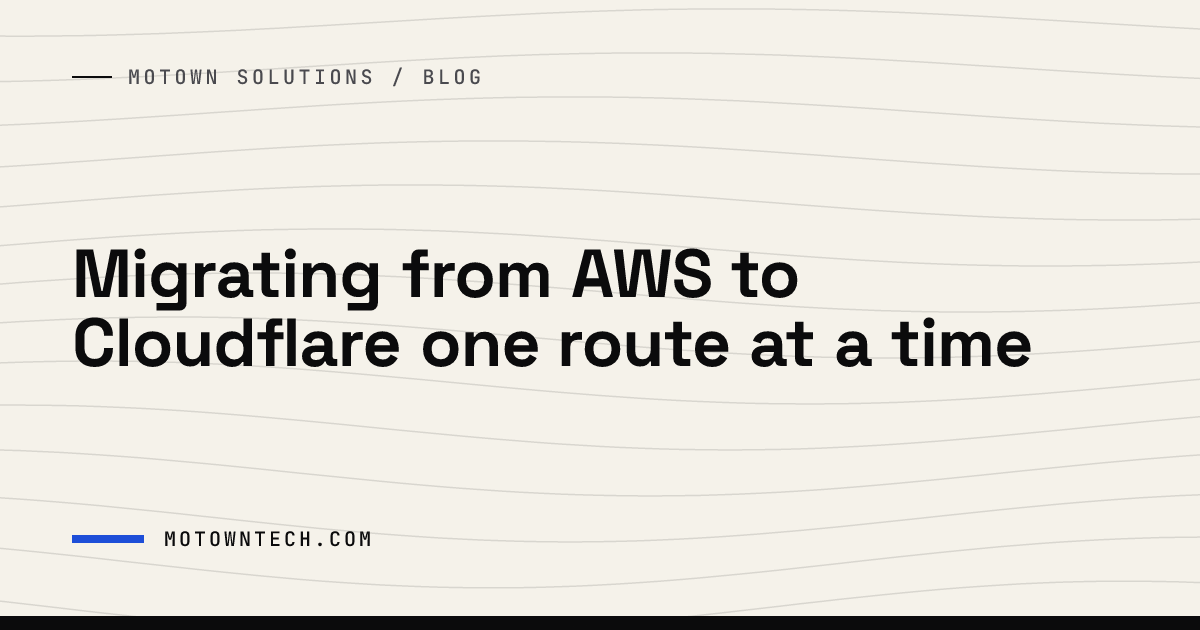
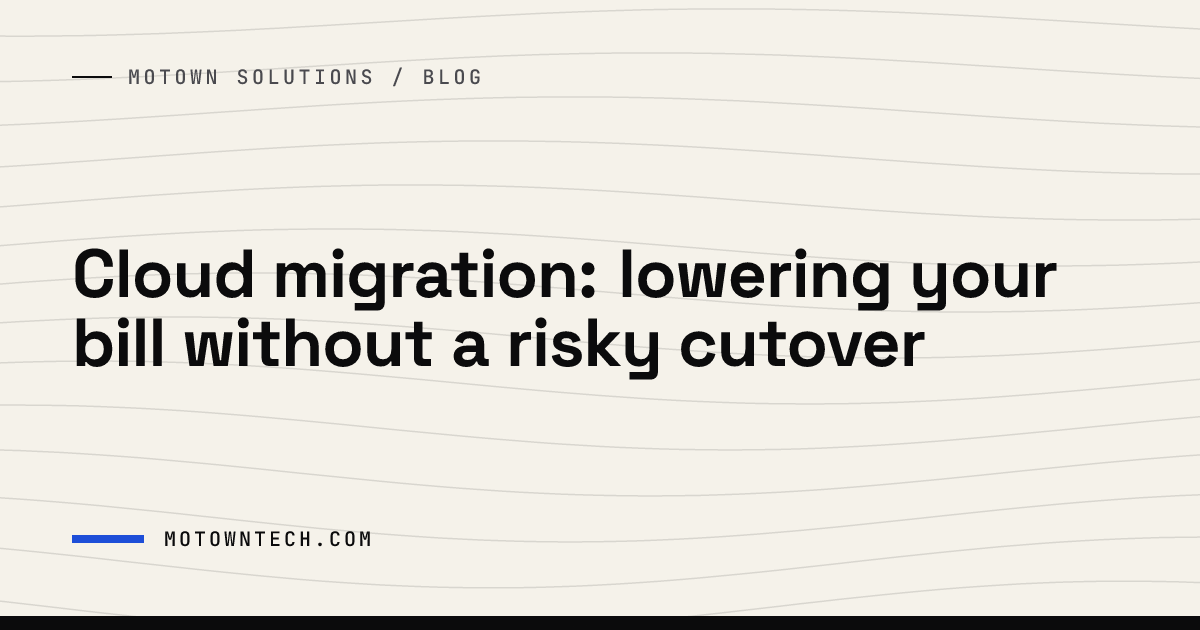
copy(blog): rewrite the cloud-migration-route-by-route post around the reader's problem

Changed region(s): [[0.0617, 0.3921, 0.8942, 0.6032]]

diff --git a/src/content/blog/cloud-migration-route-by-route.md b/src/content/blog/cloud-migration-route-by-route.md
@@ -1,54 +1,67 @@
 ---
-title: "Migrating from AWS to Cloudflare one route at a time"
+title: "Cloud migration: lowering your bill without a risky cutover"
 image: ../../assets/blog/cloud-migration-route-by-route-image.jpg
 imageAlt: "Taped cardboard moving boxes floating above a blue floor, one box resting on the ground"
 cover: ../../assets/blog/cloud-migration-route-by-route.png
-description: "Most cloud bills are egress, idle capacity and managed services sized for a bigger company. We move apps to Cloudflare one route at a time."
+description: "Most cloud bills pay for egress and idle capacity. How to read yours, decide what moves and migrate one route at a time instead of all at once."
 pubDate: 2026-09-03
 relatedPages: ["/cloud-migration-services"]
 category: software
 ---
 
-We migrate applications from AWS, GCP or Azure to Cloudflare route by route, behind the DNS you already have, so users keep the same URLs while each piece switches over.
+If your cloud bill has grown faster than your traffic, the cause is rarely compute. It's egress on files users download, servers sized for a peak that hardly ever comes, and managed services priced for a company bigger than yours. Moving to a cheaper platform can fix that, as long as the move itself doesn't become the risky part.
 
-When a company asks us to look at its AWS, GCP or Azure bill, the expensive part is rarely the compute. It's egress, capacity reserved for a peak that hardly ever comes, and managed services priced for a scale the business hasn't reached.
+## Read the invoice before you plan the move
 
-Most of a typical application can move to Cloudflare cleanly. The hard part is knowing which pieces move, and in what order, so the switch is uneventful for the people using the app.
+Start with a recent bill and group the line items by what they pay for. Three things tend to stand out:
 
-## Start with an inventory
+- Egress, charged on every file a user downloads.
+- Instances sized for peak traffic that sit idle most of the month.
+- A load balancer, firewall, CDN and TLS, each on its own bill.
 
-A migration starts with a list of every workload, and each one goes into one of three groups:
+If most of the cost sits in those lines, a platform that bills differently will make a real difference. If most of it is GPU time or a large database that has to stay where it is, moving will save less, and it's better to know that before you start.
 
-- It has a Cloudflare-native home and can move as it is.
-- It needs a bridge, so it can keep running where it is while the rest moves around it.
+## Sort every workload into three groups
+
+List everything the application runs, then put each item into one of three groups:
+
+- It has a native home on the new platform and can move as it is.
+- It needs a bridge, so it keeps running where it is while the rest moves around it.
 - It belongs where it is and should stay.
 
-Being honest about that last group is what keeps the cutover boring. A plan that tries to move everything usually turns into the rewrite nobody wants to sign off on.
+Be honest about the third group. GPU workloads, long-running stateful services and anything behind a compliance boundary that took real effort to get right are usually best left alone. A plan that insists on moving everything tends to turn into the rewrite nobody wants to sign off on.
 
-## Where each piece usually goes
+## Know where each piece usually lands
 
-- API routes and the glue between services move to Workers. There are no instances to size, and nothing sits idle waiting for a peak that arrives twice a year.
-- Static sites and server-rendered frontends move to Pages. The CDN, TLS and preview environments come with the platform, so there's no need to piece them together from four separate services. For apps built on these from the start, see [cloud application development](/cloud-application-development).
-- Files in S3 move to R2, which uses the same S3 API with no egress fees. For anything that serves files to users, that line item alone is often the whole business case.
-- Small relational databases move to D1. Postgres and MySQL databases that need to stay put get Hyperdrive in front of them, so a Worker isn't paying for a cold connection on every request.
-- Scheduled jobs become Cron Triggers and background work becomes Queues. The server whose only job was running crontab can be retired.
+If the destination is Cloudflare, the mapping is fairly predictable:
 
-Some things stay where they are: GPU workloads, long-running stateful services, and anything with a compliance boundary that took real effort to get right. Those get Cloudflare in front of them so everything else can move.
+- API routes and the glue between services become Workers. They're billed per request and scale to zero when traffic is quiet, so there are no instances to size.
+- Static sites and server-rendered frontends go to Pages, with the CDN, TLS and preview environments included. For apps built this way from the start, see [cloud application development](/cloud-application-development).
+- Files in S3 move to R2, which uses the same S3 API and charges no egress fees. For an app that serves a lot of files, that line item alone is often the whole business case.
+- Small relational databases can move to D1. Postgres or MySQL databases that need to stay put get Hyperdrive in front of them, so a request doesn't pay for a cold connection every time.
+- Scheduled jobs become Cron Triggers and background work goes on Queues. The server whose only job was running crontab can be shut down.
 
-## Route by route, behind the same DNS
+Whatever stays behind gets Cloudflare in front of it, so the rest can move without waiting on it.
 
-The cutover happens in steps. Because traffic already flows through DNS you control, routes can move to Cloudflare one at a time while the rest keep running on the old setup. Users keep the same URLs the whole way through, including files that now come from R2.
+## Move one route at a time
 
-## What changes on the bill
+The risky way to migrate is a single weekend where everything switches at once, and any problem reaches every user. You can avoid that because your traffic already flows through DNS you control. Routes can move to the new platform one at a time while the rest keep running on the old setup.
 
-The legacy cloud bill was designed around instances and regions. Many applications don't need either, and they pay every month for the mismatch. After a migration, the usual changes look like this:
+Each step is small enough to check on its own. Users keep the same URLs the whole way through, including for files that now come from R2, and most of them never notice that anything changed.
 
-- Egress on every file a user downloads goes away with R2.
-- Instances sized for peak and idle the rest of the month become Workers billed per request, which scale to zero when traffic is quiet.
-- A load balancer, firewall, CDN and TLS that each had their own bill come with the platform and get configured once.
+A sensible order is to start where the savings are largest and the risk is smallest. File storage is often a good first move, because shifting it to R2 removes egress fees without touching application code.
 
-## How we price it
+## Questions to answer before you commit
 
-We start from a recent invoice and a rough map of what runs where. From that we can tell you what moves, what stays, and what the bill should look like afterward. Engagements can be structured against the savings we find, so the audit costs nothing if there's nothing to save.
+- Which few line items make up most of the bill, and does another platform actually charge less for them?
+- Which workloads have to stay, and what will sit in front of them?
+- Can traffic be split by route at the DNS level, so pieces can move one at a time?
+- What would the bill look like with only the easy moves done?
 
-If your cloud bill has grown faster than your traffic, read how we approach [cloud migration](/cloud-migration-services), or [send us your bill and tell us what runs where](/contact).
+If the answers point to real savings, you can start with the easy moves and decide on the rest once you see the new bill.
+
+## One way to get started
+
+When a company asks us to look at its cloud costs, we start the same way: a recent invoice and a rough map of what runs where. From that we can say what moves, what stays and what the bill should look like afterward. We can also structure the engagement against the savings we find, so the audit costs nothing if there's nothing to save.
+
+Read how we approach [cloud migration](/cloud-migration-services), or [send us your bill and tell us what runs where](/contact).

diff --git a/linkedin/cloud-migration-route-by-route/post.md b/linkedin/cloud-migration-route-by-route/post.md
@@ -2,29 +2,28 @@
 
 ## Post 1: native text
 
-When we look at a company's AWS, GCP or Azure bill, the expensive part is rarely the compute.
+If your cloud bill has grown faster than your traffic, the cause is rarely compute.
 
-It's egress, capacity reserved for a peak that hardly ever comes, and managed services priced for a scale the business hasn't reached.
+Look at a recent invoice. The big lines are usually egress on every file users download, servers sized for a peak that hardly ever comes, and a load balancer, firewall and CDN that each bill separately.
 
-Most of a typical app can move to Cloudflare cleanly. A migration starts with a list of every workload, and each one goes into one of three groups: it moves as it is, it needs a bridge, or it stays where it is.
+A cheaper platform can fix that. The worry is the move itself: one weekend where everything switches at once and any problem reaches every user.
 
-Some of the usual moves:
+You don't have to migrate that way. A few things make it gradual:
 
-• API routes go to Workers, billed per request and scaled to zero when traffic is quiet.
-• Files in S3 go to R2, which speaks the same S3 API with no egress fees. For apps that serve files, that alone is often the business case.
-• Cron jobs become Cron Triggers, and the server that only ran crontab gets retired.
+• List every workload and sort it into three groups: moves as it is, needs a bridge, or stays where it is.
+• Be honest about what stays. GPU work, long-running stateful services and hard-won compliance boundaries are often best left alone.
+• Move one route at a time behind the DNS you already control, so users keep the same URLs throughout.
+• Start where savings are high and risk is low. File storage is often first, because moving it removes egress fees without touching application code.
 
-GPU workloads, long-running stateful services and anything behind a hard-won compliance boundary stay put, with Cloudflare in front.
+Then look at the bill after the easy moves and decide on the rest.
 
-The cutover happens route by route, behind the DNS you already have, and users keep the same URLs throughout.
-
-If your cloud bill has grown faster than your traffic, the full write-up is in the comments.
+We wrote up how to read the invoice and decide what moves. Link in the comments.
 
 ## Post 2: carousel (~/Documents/Motown Carousels/cloud-migration-route-by-route.pdf)
 
-Document title: Where your cloud bill actually goes
+Document title: Cut your cloud bill without a risky cutover
 
-Most cloud bills pay for egress and idle capacity more than compute. Here's how we decide what moves to Cloudflare, what stays, and how the cutover works. The full write-up is in the comments.
+Most cloud bills pay for egress and idle capacity more than compute. How to read yours, decide what moves and migrate one route at a time. The full write-up is in the comments.
 
 ## First comment (both posts)
 
